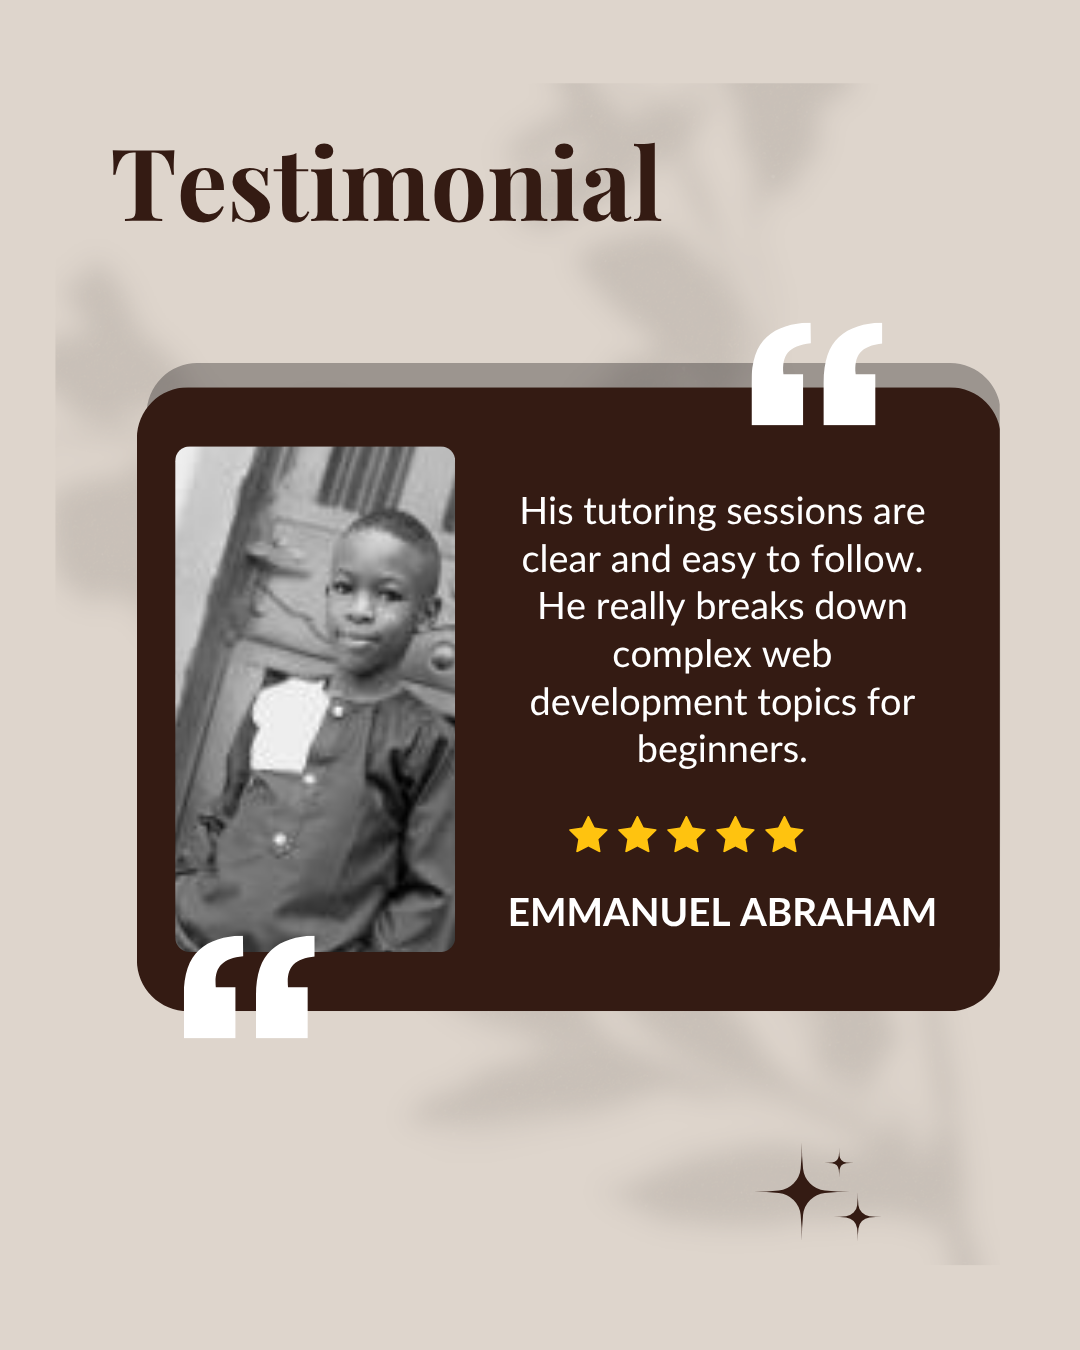
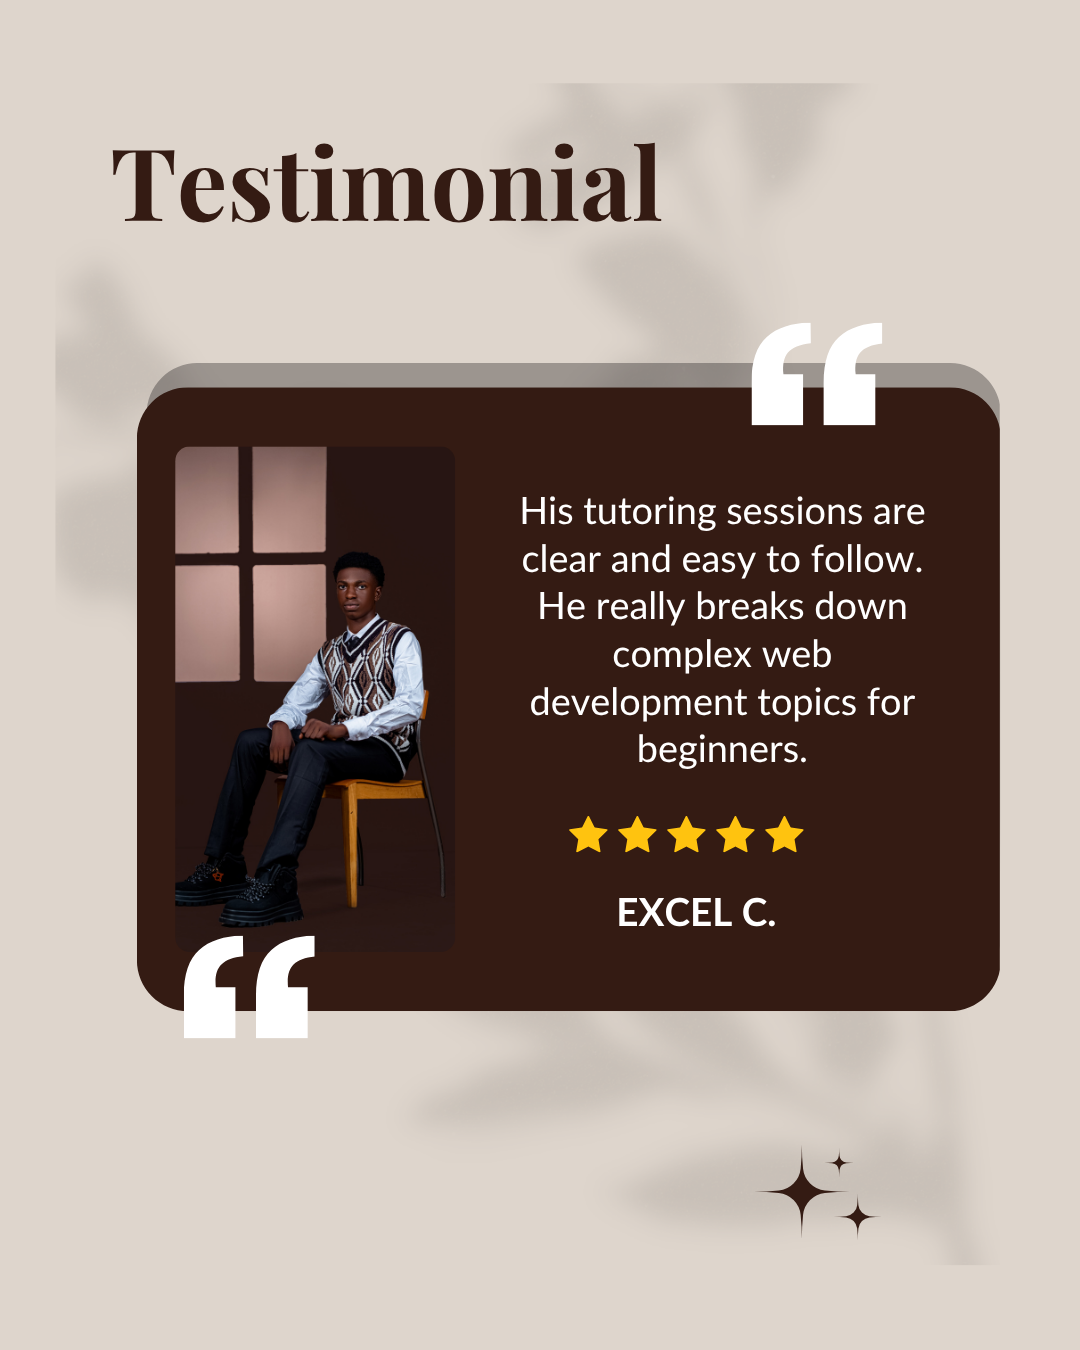
worked on the website, added new images and updated the index and work pages.

Changed region(s): [[0.1528, 0.3111, 0.4278, 0.7156], [0.4583, 0.6533, 0.8861, 0.6844]]

diff --git a/work.html b/work.html
@@ -786,6 +786,62 @@
 
     </div>
 
+    <!-- ── GRID ROW 3 ── -->
+    <div class="projects-grid-row">
+ 
+      <!-- PROJECT 7: Scentra Perfumery -->
+      <div class="project-card" data-category="landing web">
+        <div class="project-card__img">
+          <img src="img/scentra.png" alt="Scentra Perfumery" class="expandable">
+        </div>
+        <div class="project-card__body">
+          <div class="project-meta">
+            <span class="project-number">07</span>
+            <span class="project-tag tag--landing">Landing Page</span>
+            <span class="project-tag tag--brand">Branding</span>
+          </div>
+          <h3>Scentra Perfumery</h3>
+          <p>An elegant landing page for a luxury perfume brand — built to evoke sophistication and exclusivity. Clean layout, rich visuals, and a smooth browsing experience designed to draw customers into the collection.</p>
+          <div class="project-card__footer">
+            <div style="display:flex;gap:0.5rem;flex-wrap:wrap;">
+              <span class="project-tag tag--web" style="font-size:0.68rem;">HTML</span>
+              <span class="project-tag tag--web" style="font-size:0.68rem;">CSS</span>
+              <span class="project-tag tag--web" style="font-size:0.68rem;">JS</span>
+            </div>
+            <a href="https://agnessperfumery.netlify.app/" target="_blank" class="project-card__link">
+              View Live <i class="fa-solid fa-arrow-right"></i>
+            </a>
+          </div>
+        </div>
+      </div>
+ 
+      <!-- PROJECT 8 (slot): Pasta Express -->
+      <div class="project-card" data-category="landing web">
+        <div class="project-card__img">
+          <img src="img/pastaexpress.png" alt="Pasta Express" class="expandable">
+        </div>
+        <div class="project-card__body">
+          <div class="project-meta">
+            <span class="project-number">08</span>
+            <span class="project-tag tag--landing">Landing Page</span>
+          </div>
+          <h3>Pasta Express</h3>
+          <p>A landing page built for a food vendor — designed to attract customers, showcase the menu, and make ordering easy. Clean, appetising layout built to drive conversions for a local food business.</p>
+          <div class="project-card__footer">
+            <div style="display:flex;gap:0.5rem;flex-wrap:wrap;">
+              <span class="project-tag tag--web" style="font-size:0.68rem;">HTML</span>
+              <span class="project-tag tag--web" style="font-size:0.68rem;">CSS</span>
+              <span class="project-tag tag--web" style="font-size:0.68rem;">JS</span>
+            </div>
+            <a href="https://pastanirvana.netlify.app/" target="_blank" class="project-card__link">
+              View Live <i class="fa-solid fa-arrow-right"></i>
+            </a>
+          </div>
+        </div>
+      </div>
+ 
+    </div>
+
     <!-- ── FEATURED 2: This Portfolio ── -->
     <div class="project-featured" data-category="web design" style="margin-bottom:1.5rem;">
       <div class="project-featured__img">

diff --git a/index.html b/index.html
@@ -705,7 +705,7 @@
         <div class="testimonial active"><img src="img/1.png" alt="Testimonial — Landing Page"></div>
         <div class="testimonial"><img src="img/2.png" alt="Testimonial — Church Flyer"></div>
         <div class="testimonial"><img src="img/3.png" alt="Testimonial — Social Media SEO"></div>
-        <div class="testimonial"><img src="img/4.png" alt="Testimonial — Web Hosting"></div>
+        <div class="testimonial"><img src="img/testimonial.jpeg" alt="Testimonial — Web Hosting"></div>
         <div class="testimonial"><img src="img/5.png" alt="Testimonial — Web Tutoring"></div>
       </div>
     
